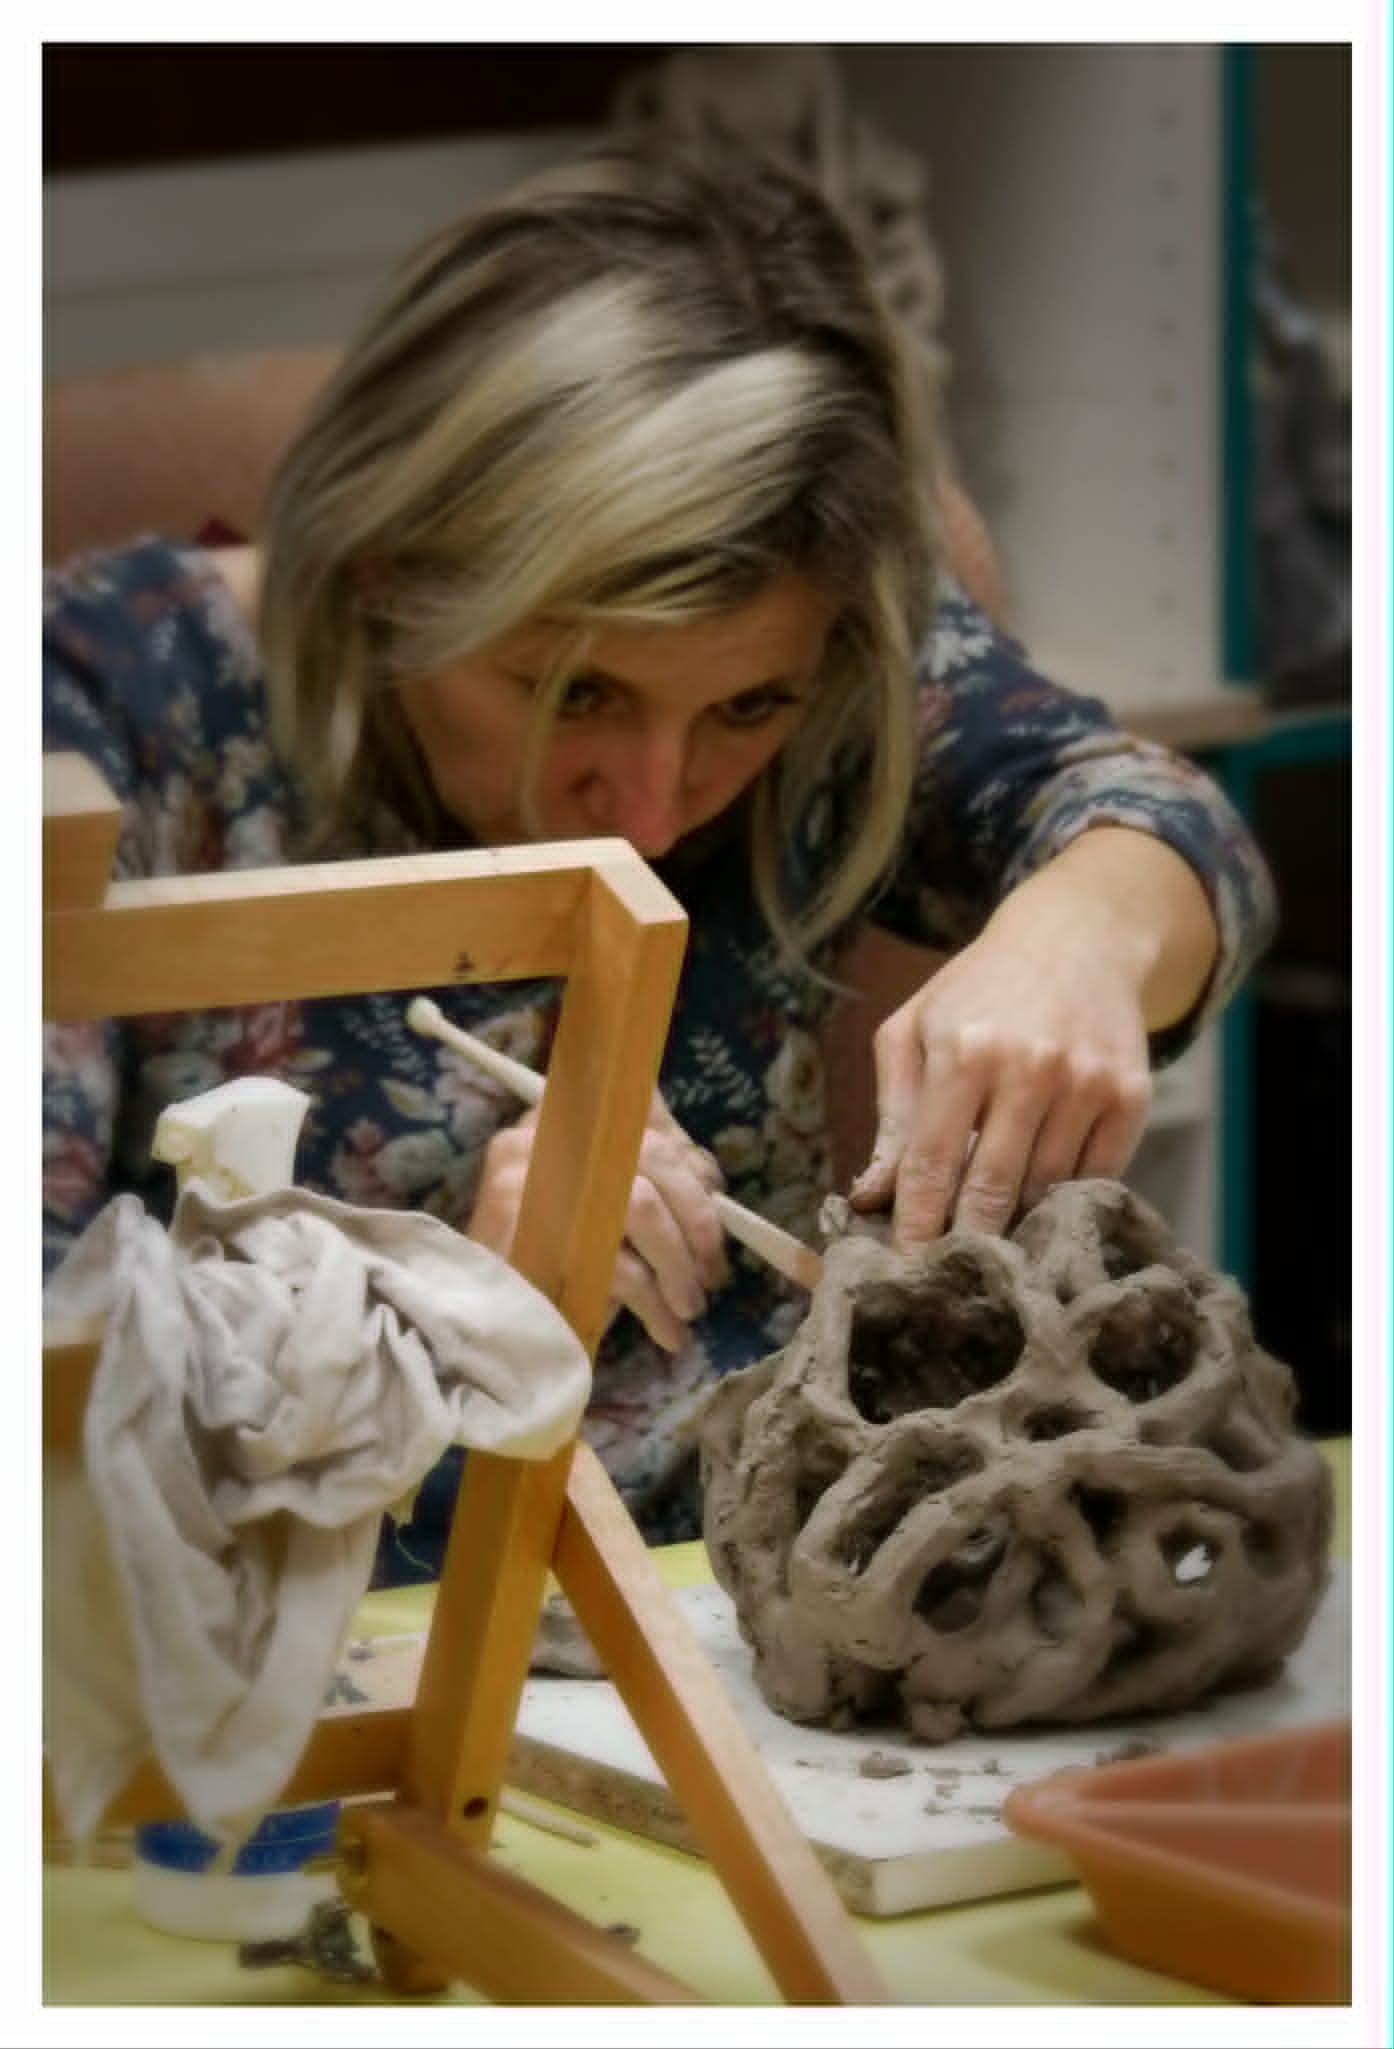
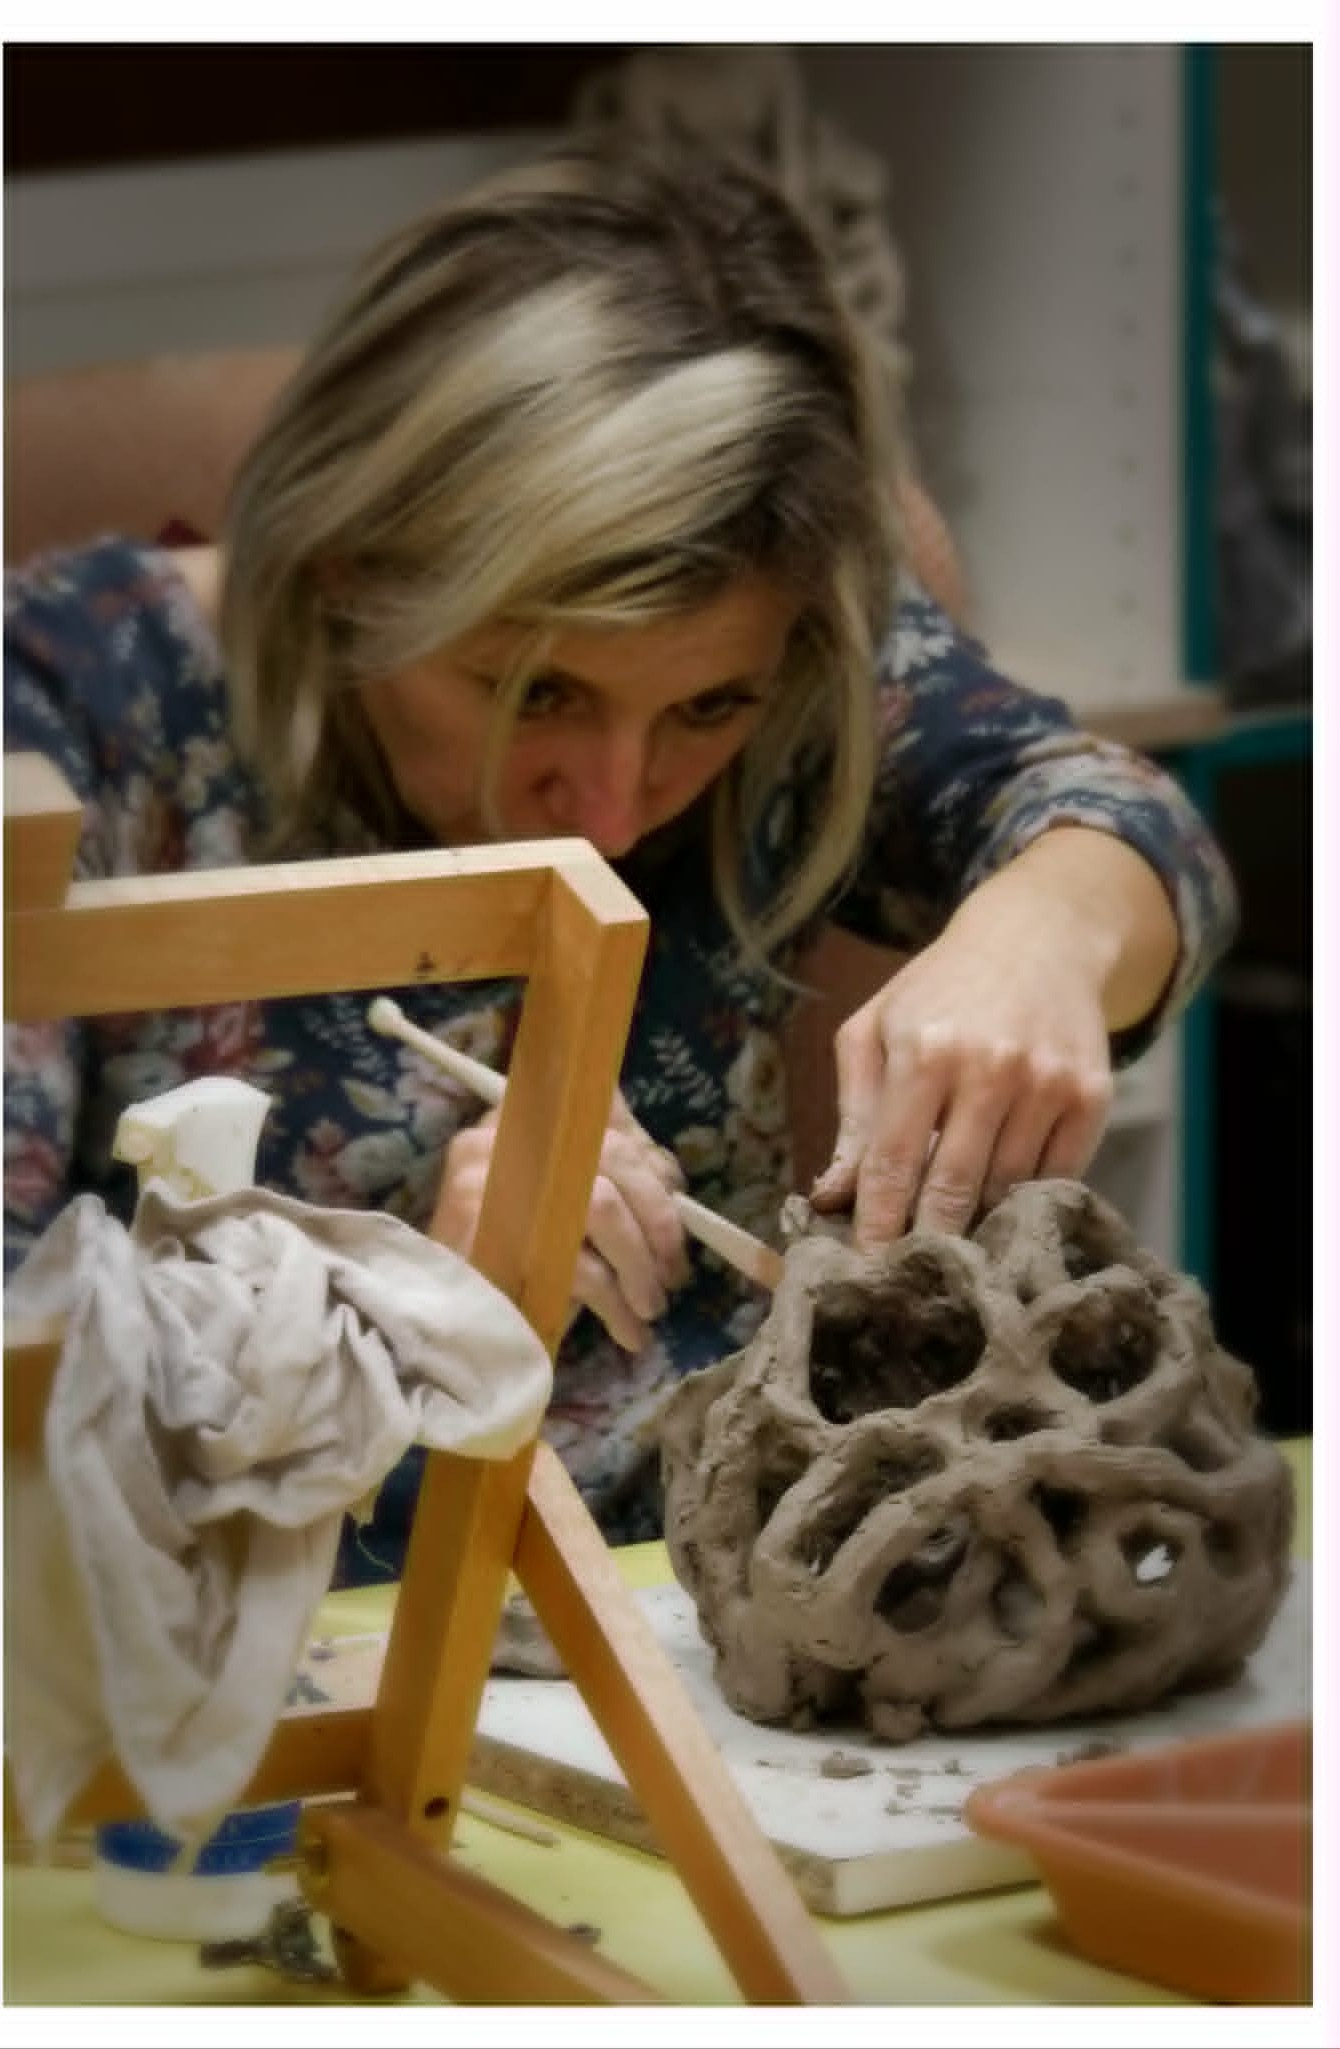
style: Physically crop borders from ira_praca.jpg, fix wrapper padding and ensure perfect desktop vertical alignment

diff --git a/assets/css/main.css b/assets/css/main.css
@@ -2371,12 +2371,11 @@ section,
   display: block;
 }
 
-/* Crop the right edge of the left image to hide scanner smudge line */
-.about-left-image .about-image-card img {
-  width: 100.5% !important;
-  max-width: 100.5% !important;
-  transform: scale(1.035);
-  transform-origin: left center;
+/* Spacing on mobile */
+@media (max-width: 991px) {
+  .about-left-image, .about-right-image {
+    margin-top: 24px;
+  }
 }
 
 /* About Section Grid Alignment on Desktop */

diff --git a/index.html b/index.html
@@ -135,7 +135,7 @@
           
           <!-- Left image -->
           <div class="col-lg-6 about-left-image" data-aos="fade-up" data-aos-delay="100">
-            <div class="about-image-card mt-4">
+            <div class="about-image-card">
               <img src="images/ira_praca.jpg" class="img-fluid" alt="Irena Lehotská pri práci">
             </div>
           </div>
@@ -162,11 +162,9 @@
           </div>
 
           <!-- Right image -->
-          <div class="col-lg-6 about-right-image" data-aos="fade-up" data-aos-delay="250">
-            <div class="content ps-0 ps-lg-5">
-              <div class="about-image-card mt-4">
-                <img src="images/gallery_photo1.jpg" class="img-fluid" alt="Umelecké výrobky">
-              </div>
+          <div class="col-lg-6 about-right-image ps-0 ps-lg-5" data-aos="fade-up" data-aos-delay="250">
+            <div class="about-image-card">
+              <img src="images/gallery_photo1.jpg" class="img-fluid" alt="Umelecké výrobky">
             </div>
           </div>
         </div>